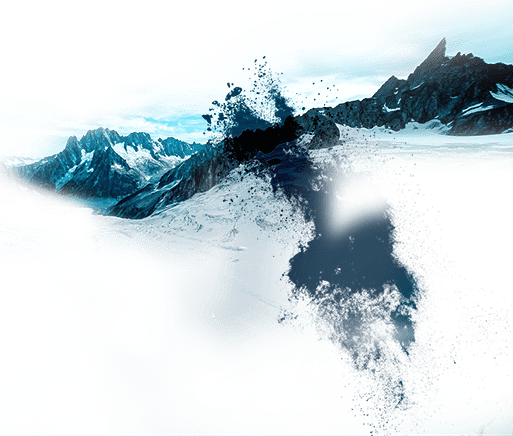
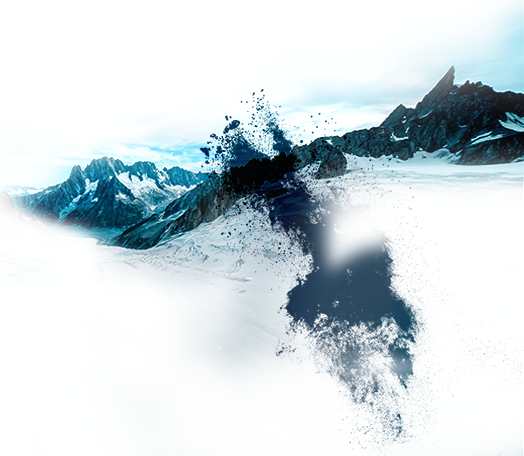
修正圖片 文字大小 間距

diff --git a/style/index.css b/style/index.css
@@ -11,6 +11,7 @@ body{
 .mod_bigtxt {
 	font-size: 53px;
 	font-weight: bold;
+	margin-bottom: 10px;
 }
 .mod_midtxt {
 	position: relative;
@@ -439,7 +440,7 @@ body{
 }
 
 .banner_item4 .banner_pic{
-	background: url('../images/bg_banner01.png')no-repeat 0px 80px/ cover;
+	background: url('../images/bg_banner01.png')no-repeat 0px 0px/ cover;
 }
 .banner_item4 .banner_pic:after{
 	content:'';
@@ -707,10 +708,10 @@ img.icon_poker4{
 	transition-delay: .3s;
 }
 .banner_item3.active .pic_cell02{
-	left: 21%;
+	left: 15%;
 }
 .banner_item3.active .pic_cell03{
-	right: 21%;
+	right: 15%;
 }
 
 .banner_item3 .banner_minitxt{
@@ -763,7 +764,8 @@ img.icon_poker4{
 	flex-direction: column;
 	justify-content: center;
 }
-.product_txt .mod_midtxt{
+.product_txt .mod_midtxt,
+.service .mod_midtxt{
 	margin-bottom: 30px;
 }
 .product_txt .mod_midtxt,
@@ -878,7 +880,6 @@ img.icon_poker4{
 }
 .service .mod_minitxt{
 	line-height: 26px;
-	margin-top: 20px;
 }
 .service_pic{
 	content:'';
@@ -929,7 +930,7 @@ img.icon_poker4{
 	display: flex;
 	bottom: 50px;
 	-webkit-user-select: none;
-	z-index: 10;
+	z-index: 2;
 }
 .game_btn {
 	color: #000;
@@ -993,6 +994,7 @@ img.icon_poker4{
 	color: #fff;
 	margin-bottom: 80px;
 }
+
 .partner_ul{
 	display: flex;
 }
@@ -1817,7 +1819,7 @@ footer{
 		width: 40%;
 	}
 	.recruit_item{
-		padding: 30px;
+		padding: 35px;
 	}
 	.recruit_txt{
 		margin-top: 20px;
@@ -1941,6 +1943,9 @@ footer{
 	.banner_minitxt{
 		line-height: 22px
 	}
+	.banner_bigtxt{
+		margin-bottom: 10px;
+	}
 	.banner_item{
 		align-content: center;
 	}
@@ -1958,10 +1963,12 @@ footer{
 		padding-bottom: 50px;
 		justify-content: flex-end;
 	}
-	.banner_pic,
-	.banner_item3 .banner_pic{
+	.banner_pic{
 		width: 100%;
 		padding-bottom: calc( 100% * 0.84642857);
+	}
+	.banner_item3 .banner_pic{
+		padding-bottom: calc( 70% * 0.84642857);
 	}
 	.banner_item2{
 		padding-top: 50px;
@@ -1973,7 +1980,7 @@ footer{
 	
 	.banner_txtbox{
 		width: 100%;
-		padding: 0px 100px;
+		padding: 0px 70px;
 	}
 	img.pic_peopel1{
 		height: 85%;
@@ -2006,7 +2013,7 @@ footer{
 		top: -18%;
 	}
 	.banner_item4 .banner_txtbox{
-		padding: 50px 100px;
+		padding: 50px 70px;
 	}
 	.banner_item1{
 		padding-right: 0;
@@ -2022,7 +2029,7 @@ footer{
 	.banner_item3 .banner_txtbox{
 		flex-direction: column;
 		align-items: flex-start;
-		padding: 0px 100px;
+		margin-top: 20px;
 	}
 	.banner_item3 .banner_minitxt{
 		width: 100%;
@@ -2039,10 +2046,10 @@ footer{
 		transition-delay: .3s;
 	}
 	.banner_item3.active .pic_cell02{
-		left: 10%;
+		left: 15%;
 	}
 	.banner_item3.active .pic_cell03{
-		right: 11%;
+		right: 15%;
 	}
 	.txt_box::before,
 	.txt_box::after,
@@ -2217,7 +2224,10 @@ footer{
 	.method{
 		font-size: 14px;
 	}
-	
+	.product_txt .mod_midtxt,
+	.service .mod_midtxt{
+		margin-bottom: 10px;
+	}
 	.service{
 		display: flex;
 		justify-content: center;
@@ -2296,7 +2306,11 @@ footer{
 	.banner_txtbox,
 	.banner_item4 .banner_txtbox,
 	.banner_item3 .banner_txtbox{
-		padding: 0 15px;
+		padding: 0 30px;
+	}
+	.mod_midtxt,
+	.banner_bigtxt{
+		font-size: 28px;
 	}
 	.product_txt{
 		padding: 0;
@@ -2372,7 +2386,7 @@ footer{
 		padding: 0 10px;
 	}
 	.recruit_item{
-		padding: 30px;
+		padding: 40px;
 	}
 
 }
@@ -2395,10 +2409,7 @@ footer{
 }
 
 @media (max-width: 360px){
-	.banner_item4 .banner_bigtxt,
-	.banner_item1 .banner_bigtxt{
-		font-size: 34px;
-	}
+
 	.txt_icon li{
 		width: 45px;
 		height: 45px;
@@ -2409,6 +2420,7 @@ footer{
 		padding-bottom: calc(100% / 2 * 0.22222222);
 		margin-bottom: 50px;
 	}
+
 	
 }
 
@@ -2417,8 +2429,17 @@ footer{
 	.product_txt{
 		padding: 0 15px 30px;
 	}
+
 	.product_pic{
 		height: 150px;
+	}
+	.banner_bigtxt{
+		margin-bottom: 5px;
+	}
+	.banner_txtbox, 
+	.banner_item4 .banner_txtbox, 
+	.banner_item3 .banner_txtbox{
+		padding: 0 15px;
 	}
 }
 

diff --git a/tpl/index.html b/tpl/index.html
@@ -226,7 +226,6 @@
 	<div id="hm_2" class="product">
 		<div class="product_inf bg_triangle_in_out">
 			<div class="product_txt">
-				<div class="mod_bigtxt mod_font_en">PRODUCT</div>
 				<div class="mod_midtxt">產品服務</div>
 				<div class="mod_minitxt">
 					iCash 創立至今，一直屹立於行業頂尖。作為遊戲系統供應商，以用戶全平台遊戲體驗為核心，提供最新的全方位技術支持，致力打造遊戲娛樂生態圈。 並與知名娛樂公司成為合作夥伴，在資源優勢上從系統結構、大數據分析、行業生態建設等多方面進行深度優化，完善產品技術和建立更成熟的運營團隊。
@@ -264,8 +263,7 @@
 			<!-- 流星動畫 -->
 		</div>
 		<div class="txt_box">
-			<div class="mod_bigtxt mod_font_en" data-title="SERVICE">SERVICE</div>
-			<div class="mod_midtxt">服務項目與流程</div>
+			<div class="mod_midtxt" data-title="SERVICE">服務項目與流程</div>
 			<div class="mod_minitxt">
 				iCash 提供全面的服務，不論在產品質量、服務管理以及技術支援，我們的專業團隊及技術人員都會為客人提供滿意及稱心之服務。防禦系統部分我們採用自家研發的CDN立體化防攻擊體系，24小時全面抵禦任何類型的DDoS或CC攻擊，並提供獨創防劫持技術，通過加密演算法和密鑰交換演算法加密建立安全連線確保信息傳輸。
 			</div>
@@ -296,8 +294,7 @@
 	
 	<!-- 合作流程 -->
 	<div id="hm_4" class="partner">
-		<div class="mod_bigtxt gradient mod_font_en" data-title="PARTNER">PARTNER</div>
-		<div class="mod_midtxt txt_shadow">合作流程</div>
+		<div class="mod_midtxt">合作流程</div>
 		
 		<ul class="partner_ul">
 			<li>
